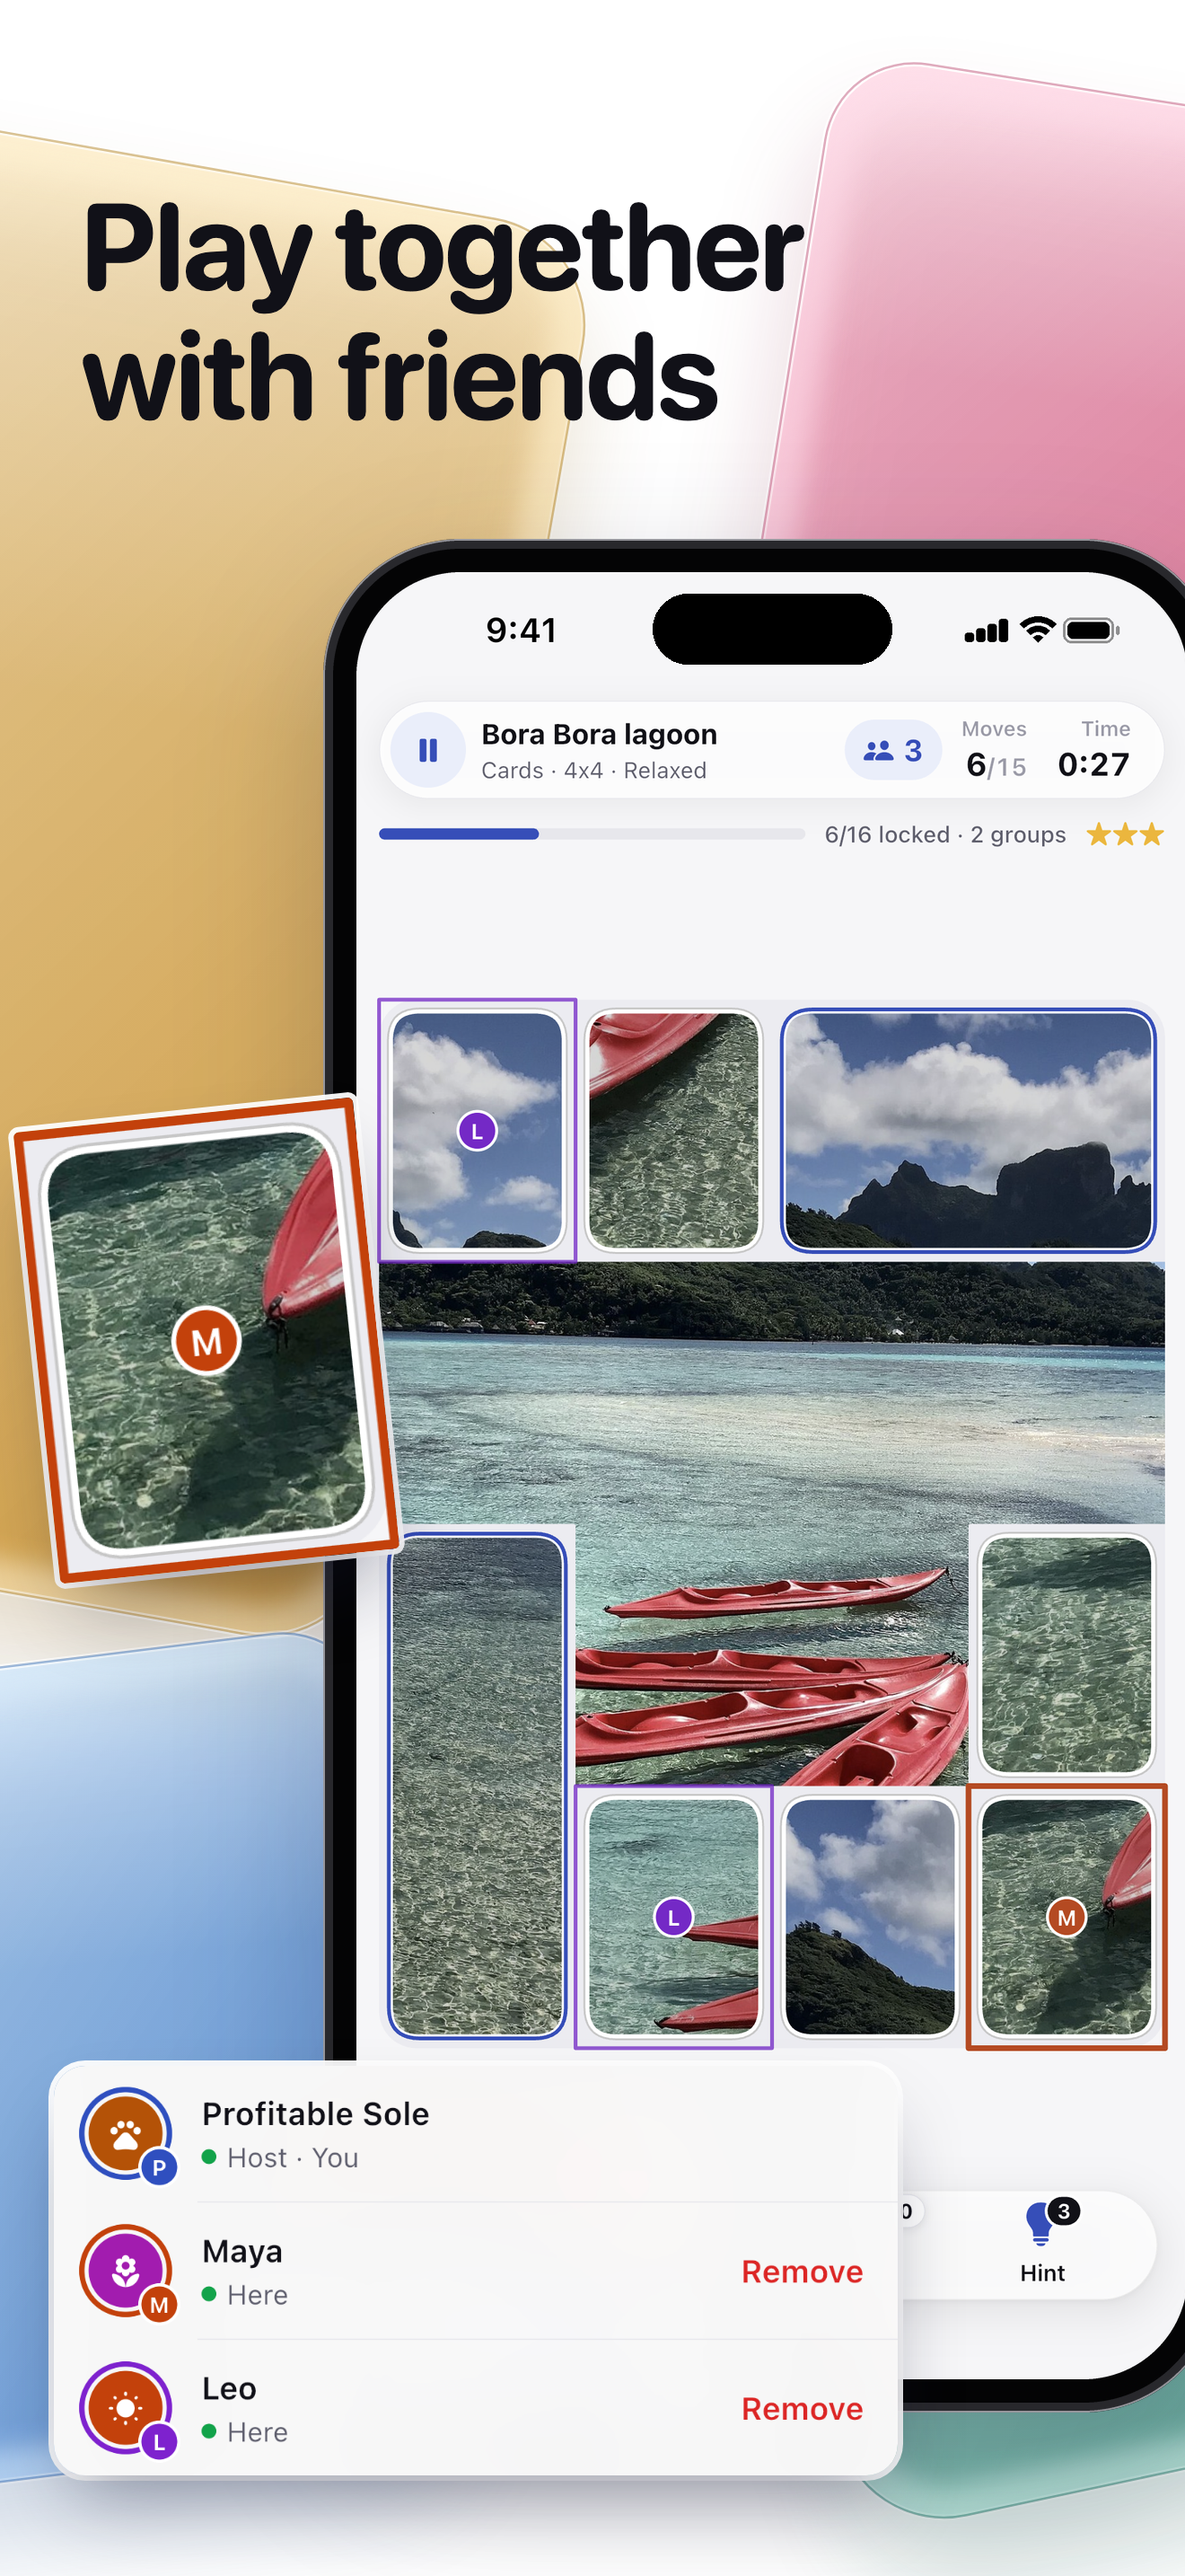
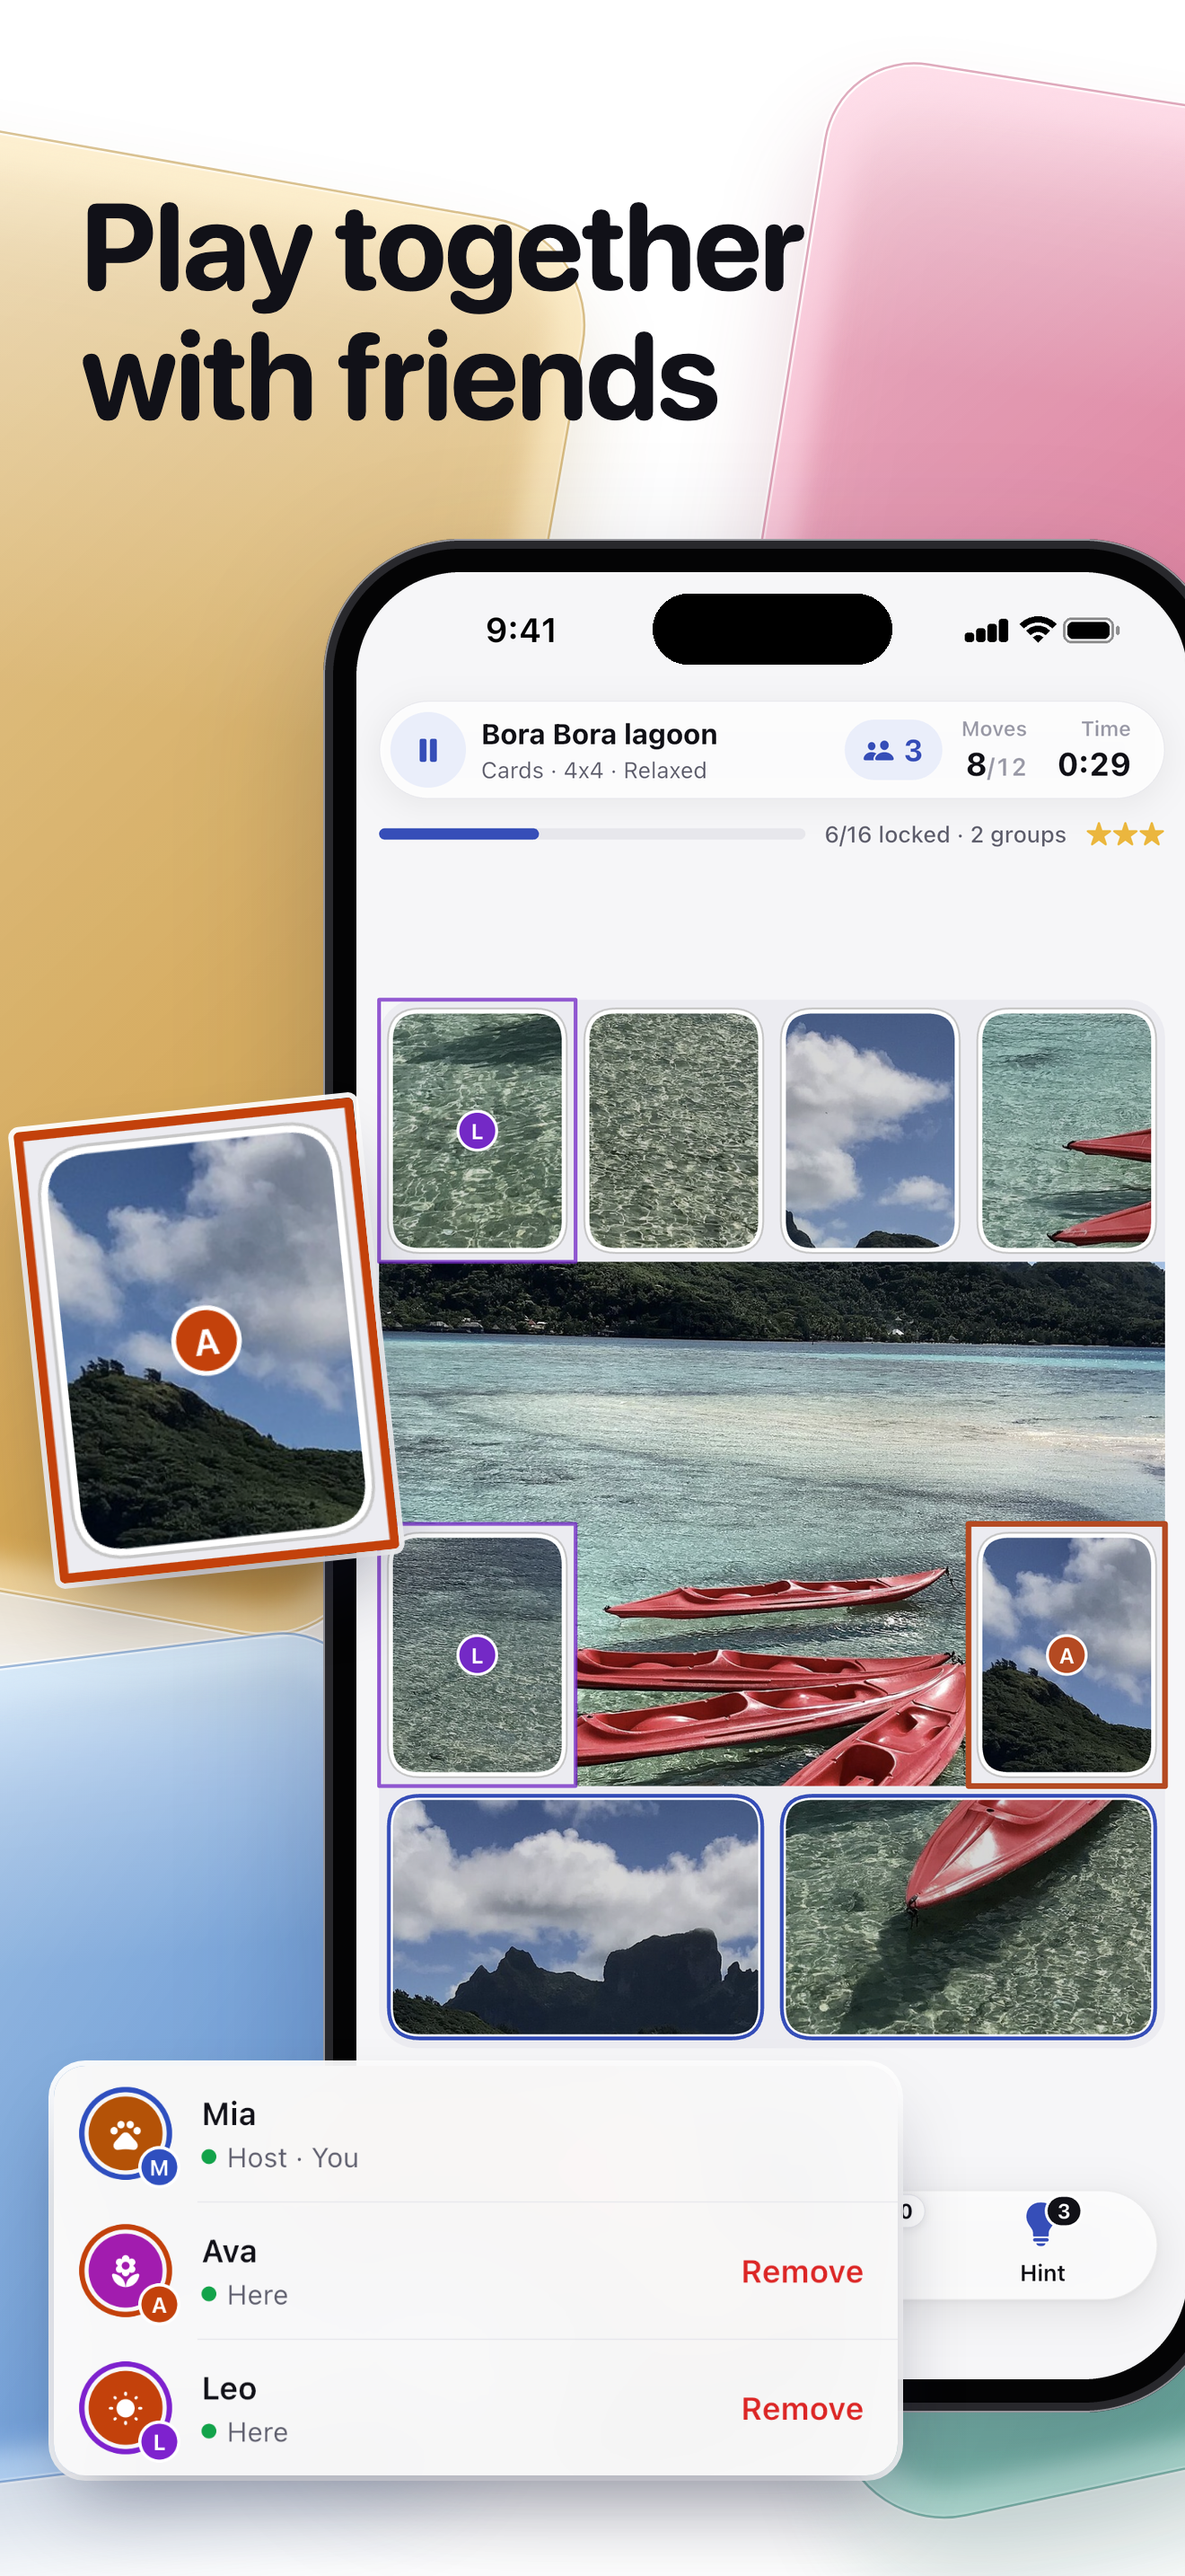
Store slide 3: the host is Mia, friends Ava and Leo
The co-op capture names the store player Mia where other players see it
(storePlayerName, instead of a random guest name like "Profitable Sole");
the friend Maya becomes Ava so the three initials differ (M, A, L). Leo's
move is a swap that locks neither card, so his purple "L" shows on both
themes. 32_coop_board and 33_coop_players retaken light and dark; slide 3
recomposed (headline contrast 10.7).

diff --git a/integration_test/store_screenshots_test.dart b/integration_test/store_screenshots_test.dart
@@ -119,7 +119,11 @@ const leagueAvatars = ['wave', 'cake', 'globe', 'bike', 'coffee', 'umbrella', 'k
 /// players, scripted here instead of the live backend, so the slide shows a calm moment of a shared
 /// board (the players chip, a card one friend holds and a card the other just moved).
 const coopPuzzle = 'p-00df45e91273'; // Tropical Beaches: Bora Bora lagoon
-const coopFriends = {'stage-maya': ('Maya', 'flower'), 'stage-leo': ('Leo', 'sun')};
+const coopFriends = {'stage-ava': ('Ava', 'flower'), 'stage-leo': ('Leo', 'sun')};
+
+/// The store player's name where other players see it (the co-op player list), instead of the random
+/// guest name; the name the design QA presets use. Its initial differs from the friends' (M, A, L).
+const storePlayerName = 'Mia';
 
 class _StageCoop implements CoopBackend {
   final _events = StreamController<CoopEvent>.broadcast();
@@ -537,7 +541,7 @@ void main() {
           if (friend != null) return Profile.guest(id).copyWith(displayName: friend.$1, avatar: friend.$2);
           if (id == ref.watch(currentUserIdProvider)) {
             final mine = ref.watch(profileProvider).value;
-            if (mine != null) return mine;
+            if (mine != null) return mine.copyWith(displayName: storePlayerName);
           }
           return ref.watch(profileRepositoryProvider).findByUserId(id);
         }),
@@ -601,7 +605,7 @@ void main() {
     }
 
     // Play together: a shared board mid-game, the host's view, with two friends: the players chip,
-    // the card Maya holds and the card Leo just moved, each in their colour and with their initial.
+    // the card Ava holds and the card Leo just moved, each in their colour and with their initial.
     if (want('32_coop_board') || want('33_coop_players')) {
       try {
         await startGame(tester, coopPuzzle, 'Cards', 'Relaxed');
@@ -615,12 +619,23 @@ void main() {
         // The join toasts come and go before the capture.
         await settle(tester, 7000);
         final b = board(tester);
-        // Leo moves a loose card next to the middle; Maya holds another one. Single cards first; a board
+        // Leo moves a loose card next to the middle; Ava holds another one. Single cards first; a board
         // that left fewer than two (mid-build joins by chance) uses any loose card instead.
         final loose = [for (var s = 0; s < b.cells; s++) if (!b.isLocked(s)) s];
         final singles = loose.where((s) => single(b, s)).toList();
         final pool = singles.length >= 2 ? singles : loose;
-        final from = pool.first, to = pool[pool.length ~/ 2];
+        // A move that locks neither card, so Leo's marks stay on loose cards (first such pair).
+        var from = pool.first, to = pool[pool.length ~/ 2];
+        search:
+        for (final a in pool) {
+          for (final c in pool.reversed) {
+            final m = a == c ? null : b.moveTo(a, c);
+            if (m != null && !m.isLocked(a) && !m.isLocked(c)) {
+              (from, to) = (a, c);
+              break search;
+            }
+          }
+        }
         final after = b.moveTo(from, to);
         if (after != null) stage.move('stage-leo', b.slots, after.slots);
         await settle(tester, 1500);
@@ -629,11 +644,11 @@ void main() {
         final freeSingles = free.where((s) => single(now, s)).toList();
         final held = freeSingles.isNotEmpty ? freeSingles.last : (free.isNotEmpty ? free.last : null);
         if (held != null) {
-          stage.hold('stage-maya', now.slots[held]);
-          // The store slide lifts Maya's card with her outline (drawn just outside the card).
+          stage.hold('stage-ava', now.slots[held]);
+          // The store slide lifts Ava's card with her outline (drawn just outside the card).
           recordCell(tester, '32_coop_held', held, pad: 1.5);
         } else {
-          stage.hold('stage-maya', -1);
+          stage.hold('stage-ava', -1);
         }
         await settle(tester, 1500);
         await shot(tester, '32_coop_board');

diff --git a/tools/store/compose_glass.py b/tools/store/compose_glass.py
@@ -54,14 +54,14 @@ PODIUM = (60, 720, 1260, 1200)
 STREAK_CARD = (60, 1485, 1260, 1997)  # Home's streak card in 31_home_streak
 # Play together (store capture scene with scripted players, Bora Bora lagoon in Cards 4x4): a shared
 # board mid-build with the players chip in the top bar, Leo's purple "L" on the cards he moved and
-# Maya's orange "M" on the card she holds; and the player list (avatars in their colour rings, Host /
+# Ava's orange "A" on the card she holds; and the player list (avatars in their colour rings, Host /
 # You, Here, Remove). Boxes in capture px, checked on a coordinate grid of the 2026-10-17 captures.
 COOP_BOARD = "32_coop_board"
 COOP_PLAYERS = "33_coop_players"
-# Maya's held card with her orange outline: its slot changes from run to run, so the capture test records
+# Ava's held card with her orange outline: its slot changes from run to run, so the capture test records
 # its rectangle in boards.json (`recordCell`, per theme) and the box names that record.
 COOP_HELD = "rect:32_coop_held"
-COOP_LIST = (60, 1668, 1260, 2250)   # the player list's card: Near (host, you), Maya, Leo
+COOP_LIST = (60, 1668, 1260, 2250)   # the player list's card: Mia (host, you), Ava, Leo
 COOP_LIST_RADIUS = 45                 # that card's corner radius in capture px
 # Solved daily pictures with their stars (days 1, 3, 6, 8, 10 of the calendar capture).
 STARRED = [(62, 840, 340, 1176), (674, 840, 952, 1176), (368, 1208, 646, 1546), (980, 1208, 1258, 1546), (368, 1576, 646, 1914)]
@@ -95,7 +95,7 @@ def slides() -> list[dict]:
                    "row": {"w": 360, "h": 480, "gap": 28, "y": 640}, "radius": 30}],
          "phones": [{"capture": "15_library", "x": 160, "y": 1300}]},
         # 3. Play together (new in 2.0.0): a shared board mid-build, flat and pushed right, Leo's
-        #    purple cards in place on it; Maya's held card (orange, "M") lifted on the left, the player
+        #    purple cards in place on it; Ava's held card (orange, "A") lifted on the left, the player
         #    list (colour rings, Host, Remove) lifted over the toolbar, just under the board. Headline
         #    top left, so slide 4 (top right) answers it.
         {"key": "together", "head": "Play together\nwith friends", "text": ("top", 200, "left"),

diff --git a/.claude/skills/store-screenshots/SKILL.md b/.claude/skills/store-screenshots/SKILL.md
@@ -34,7 +34,7 @@ Play together replaced "Climb the ranks with friends" (the leaderboard; kept as 
 | --- | --- | --- | --- |
 | 1 | Swap cards. / Reveal the picture. | top, centre, icon + name | `25_hero` (Tulip Fields 8) flat, mid-build |
 | 2 | Thousands / of pictures | top, centre | one straight row of full-resolution pack covers running off both edges (endless); `15_library` (curated packs, scrolled one row so no My Puzzles tile shows) rising from the bottom edge |
-| 3 | Play together / with friends | top, left | `32_coop_board` (a scripted game, no live backend: Bora Bora lagoon in Cards 4x4 mid-build, the players chip, Leo's purple "L" on the cards he moved, Maya's orange "M" on the card she holds) flat, pushed right; Maya's card (`COOP_HELD`) lifted on the left, the player list of `33_coop_players` (`COOP_LIST`: colour rings, Host · You, Here, Remove) lifted over the toolbar just under the board |
+| 3 | Play together / with friends | top, left | `32_coop_board` (a scripted game, no live backend, the host named Mia by `storePlayerName`: Bora Bora lagoon in Cards 4x4 mid-build, the players chip, Leo's purple "L" on the cards he moved, Ava's orange "A" on the card she holds) flat, pushed right; Ava's card (`COOP_HELD`) lifted on the left, the player list of `33_coop_players` (`COOP_LIST`: colour rings, Host · You, Here, Remove) lifted over the toolbar just under the board |
 | 4 | A new picture / every day | top, right | `18_daily_month_grid` flat, pushed left, today's card and Home's 23-day streak card (`31_home_streak`, straight, low) lifted; two solved days on the right |
 | 5 | One picture, / four ways to cut it | middle | split: `06_mode_cards` from the top, `09_mode_hexagons` from the bottom, squares and triangles lifted; big mode badges on the edge of each board or card that faces the headline |
 | 6 | Bring the colour / back, card by card | lower middle | `26_painting` straight and centred from the top (owner: no tilt here), mostly grey; a loose and a locked card lifted |
@@ -139,5 +139,5 @@ reads as one story; every claim must be true in the code or the live catalogue (
   dark-finale boards came out grey because the Painting capture ran just before them. `startGame`
   now sets Painting to what each capture asks for; look for grey boards after any reorder.
 - A mid-build board can leave fewer than two single cards, so the co-op scene falls back to any loose
-  card for Leo's move and Maya's hold. Maya's card moves from run to run: the test records its
+  card for Leo's move and Ava's hold. Ava's card moves from run to run: the test records its
   rectangle (`32_coop_held[_light]` in `boards.json`) and the slide crops `"rect:32_coop_held"`.

diff --git a/store/README.md b/store/README.md
@@ -31,7 +31,7 @@ playing together (new in 2.0.0); the daily hook follows on slide 4.
 | --- | --- | --- | --- |
 | `01.png` | Swap cards. Reveal the picture. | top + icon, flat phone | `raw/25_hero`: Tulip Fields 8 mid-build |
 | `02.png` | Thousands of pictures | top, an endless row of covers, phone from the bottom | pack covers at full resolution in one row off both edges; `raw/15_library` (curated packs, scrolled past the My Puzzles tile) |
-| `03.png` | Play together with friends | top left, flat phone pushed right | `raw/32_coop_board` (a scripted shared board: the players chip, Leo's purple cards), Maya's held card (orange "M") lifted on the left and the player list of `raw/33_coop_players` lifted under the board |
+| `03.png` | Play together with friends | top left, flat phone pushed right | `raw/32_coop_board` (a scripted shared board: the players chip, Leo's purple cards), Ava's held card (orange "M") lifted on the left and the player list of `raw/33_coop_players` lifted under the board |
 | `04.png` | A new picture every day | top right, phone pushed left | `raw/18_daily_month_grid`, today's card and the 23-day streak card of `raw/31_home_streak` lifted; two solved days on the right |
 | `05.png` | One picture, four ways to cut it | middle, two phones | `raw/06_mode_cards` from the top, `raw/09_mode_hexagons` from the bottom, squares and triangles lifted, all four labelled |
 | `06.png` | Bring the colour back, card by card | lower middle, phone straight from the top | `raw/26_painting`: Monet's chrysanthemums on a 4x4 board, 3 of 16 in colour; a loose and a locked card lifted |
@@ -67,7 +67,7 @@ the same names with a `_light` suffix):
 | `23_wheel.png` | Lucky Wheel sheet |
 | `24_profile.png` | Profile |
 | `25_hero.png` ... `31_home_streak.png` | The glass set's own scenes (hero, Painting, giant board and its zoom, the dark board, Home with a 23-day streak) |
-| `32_coop_board.png` | Play together, the host's view of a scripted game (no live backend): Bora Bora lagoon in Cards mid-build, the players chip, Leo's purple "L" on the card he just moved, Maya's orange "M" on the card she holds |
+| `32_coop_board.png` | Play together, the host's view of a scripted game (no live backend): Bora Bora lagoon in Cards mid-build, the players chip, Leo's purple "L" on the card he just moved, Ava's orange "A" on the card she holds |
 | `33_coop_players.png` | The same game's player list, opened from the players chip |
 | `boards.json` | Board rectangles of the game captures |
 
